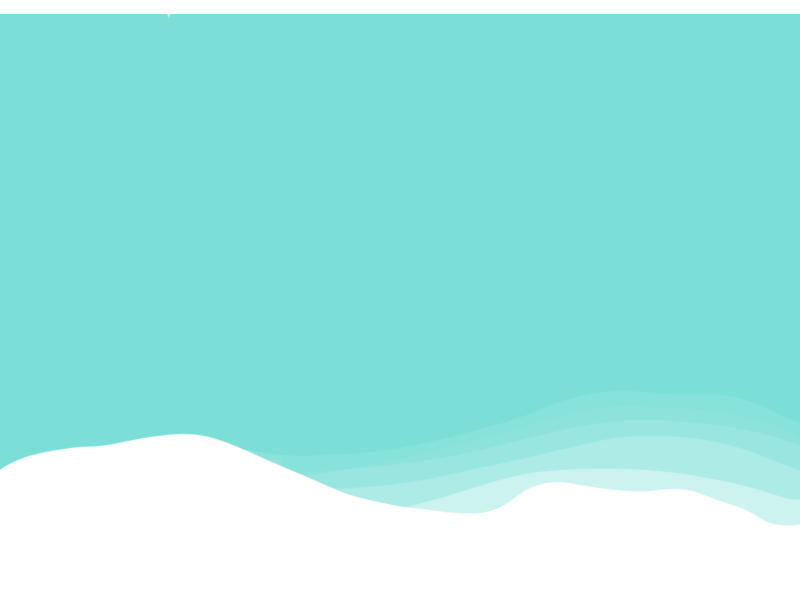
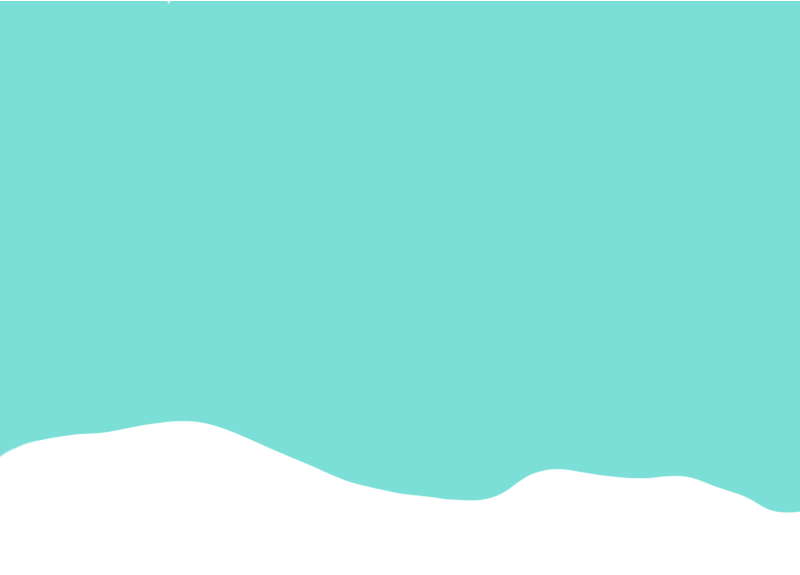
worked on wave animation (not working)

diff --git a/sketch.js b/sketch.js
@@ -1,17 +1,23 @@
 let shore;
-let wave;
+let water;
 let bottle;
 let plastic;
 let glass;
 let clean = 0;
+let wave = -350;
 let plastic1 = true;
 let plastic2 = true;
 let plastic3 = true;
+let glass1 = true;
+let glass2 = true;
+let glass3 = true;
+let up = false;
+let down = false;
 
 
 function preload() {
   shore = loadImage('assets/shore.png');
-  //wave = loadImage('wave.png');
+  water = loadImage('assets/wave.png')
   plastic = loadImage('assets/plastic.png');
   glass = loadImage('assets/glass.png')
 }
@@ -22,6 +28,24 @@ function setup() {
 
 function draw() { 
   image(shore,0,0);
+  image(water,0,wave);
+
+
+  // none of this works
+  if (down) {
+    wave++;
+  } else { if (up) {
+    wave--;
+  } }
+
+  
+  if (wave >= 0) {
+    up = true; down = false;
+  } else { if (clean >= 6) {
+    down = true;
+  }  }
+  //none of this works
+ 
 
   if (plastic1){
     image(plastic,110,235); }
@@ -29,20 +53,32 @@ function draw() {
     image(plastic,455,455); }
   if (plastic3){
     image(plastic,710,235); }
+  if (glass1){
+    image(glass,210,420,50,155);}
+  if (glass2){
+    image(glass,310,180,50,155);}
+  if (glass3){
+    image(glass,580,295,50,155);}
 }
 
 function mousePressed() {
   if (collidePointRect(mouseX,mouseY,110,235,50,130)) {
     plastic1 = false;
-    clean++;
-  }
+    clean++;}
   if (collidePointRect(mouseX,mouseY,455,455,50,130)){
     plastic2 = false;
-    clean++;
-  }
+    clean++;}
   if (collidePointRect(mouseX,mouseY,710,235,50,130)){
     plastic3 = false;
-    clean++;
-  }
+    clean++;}
+  if (collidePointRect(mouseX,mouseY,210,420,50,155)){
+    glass1 = false;
+    clean++;}
+  if (collidePointRect(mouseX,mouseY,310,180,50,155)){
+    glass2 = false;
+    clean++;}
+  if (collidePointRect(mouseX,mouseY,580,295,50,155)){
+    glass3 = false;
+    clean++;}
 }
 
